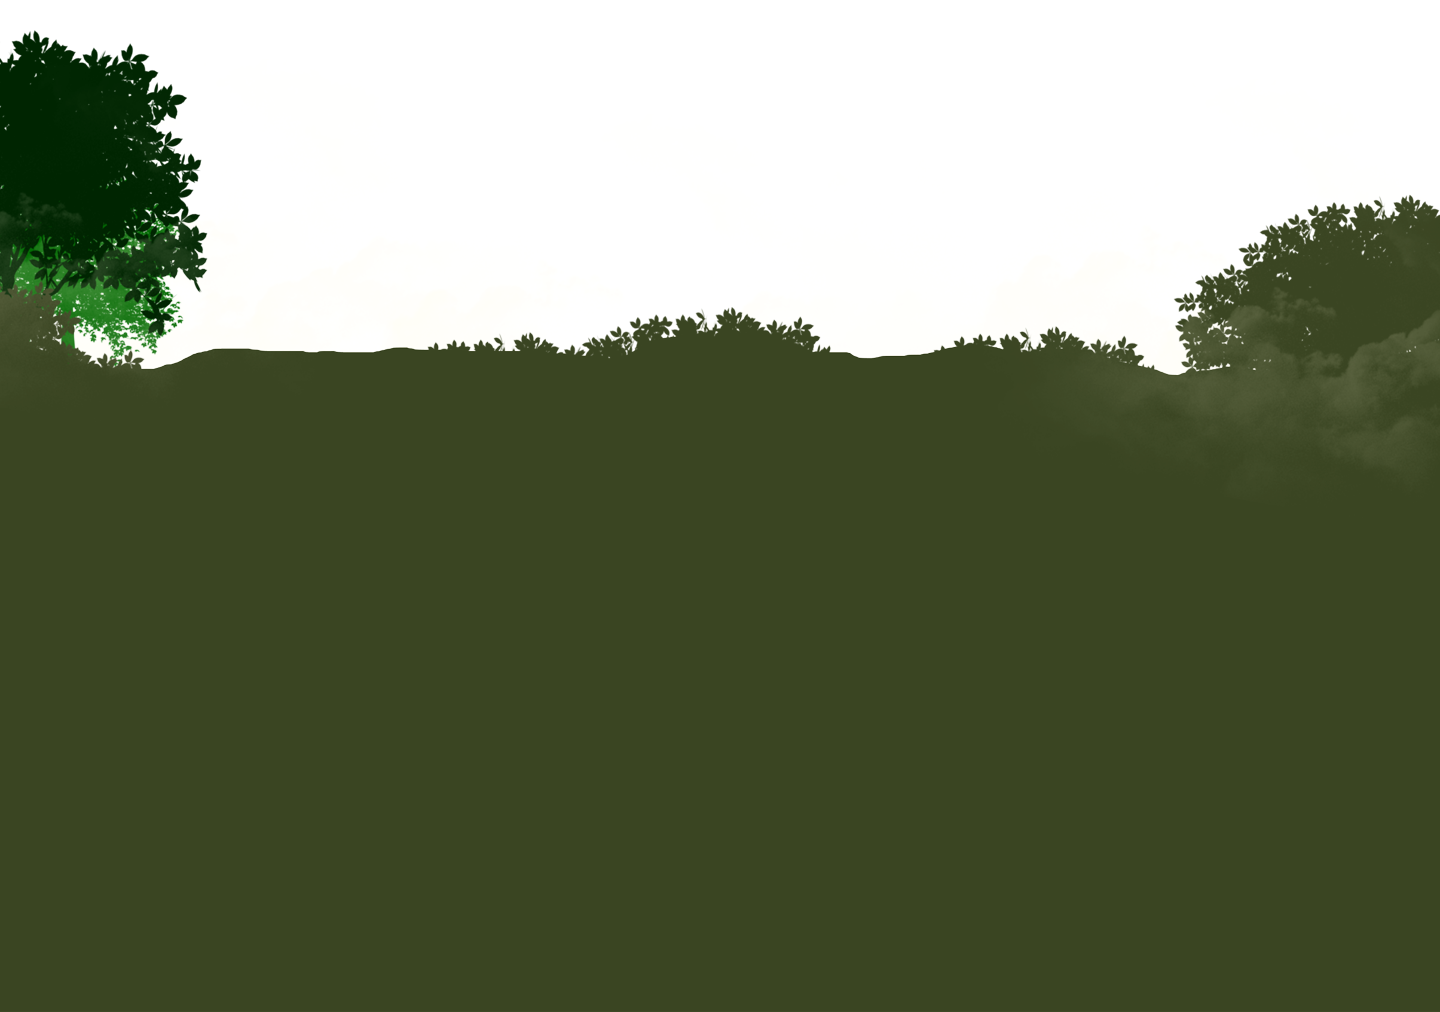
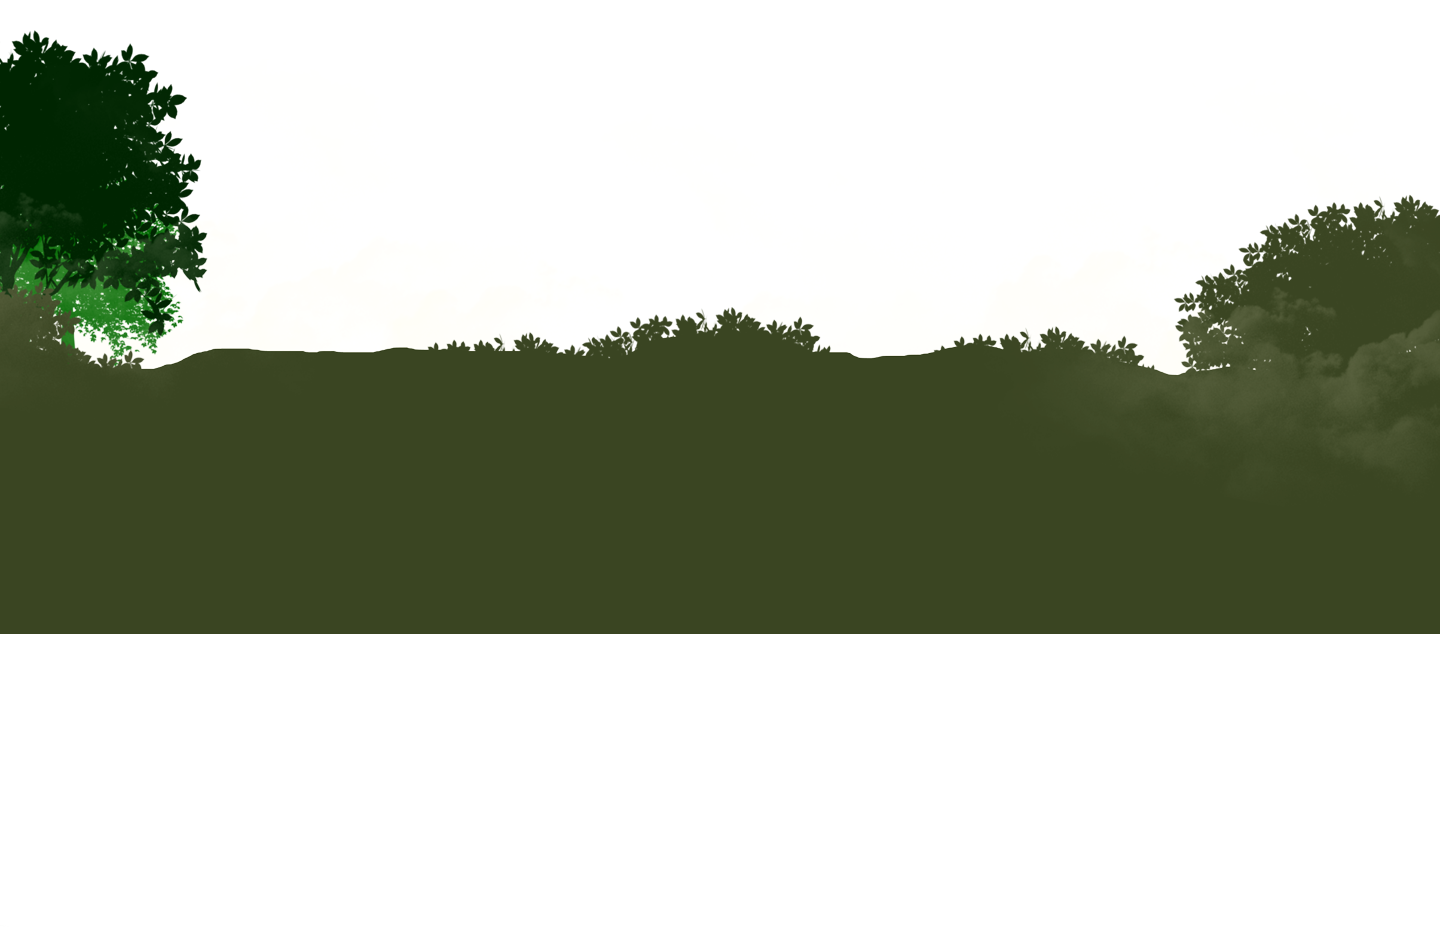
視差滾動修改

diff --git a/index.html b/index.html
@@ -8,44 +8,46 @@
     <title>test</title>
 </head>
 <body>
-    <div class="parallax">
-        <div class="parallax__layer parallax__layer__0">
-            <img src="./image/太陽.png" />
-        </div>
-        <div class="parallax__layer parallax__layer__1">
-            <img src="./image/M7.png" class="M7"/>
-        </div>
-        <div class="parallax__layer parallax__layer__2">
-            <img src="./image/城市.png" />
-        </div>
-        <div class="parallax__layer parallax__layer__3">
-            <img src="./image/m6.png" />
-        </div>
-        <div class="parallax__layer parallax__layer__4">
-            <div><img src="./image/m5.png" /></div>
-        </div>
-        <div class="parallax__layer parallax__layer__5">
-            <img src="./image/m4.png" />
-        </div>
-        <div class="parallax__layer parallax__layer__6">
-            <img src="./image/m3.png" />
-        </div>
-        <div class="parallax__layer parallax__layer__7">
-            <img src="./image/m2.png" />
-        </div>
-        <div class="parallax__layer parallax__layer__8">
-            <img src="./image/m1.png" />
-        </div>
-        <div class="parallax__layer parallax__layer__9">
-            <img src="./image/地板.png" />
-        </div>
-        <!-- 
+    
+        <div class="parallax">
+            <div class="parallax__layer parallax__layer__0">
+                <img src="./image/太陽.png" />
+            </div>
+            <div class="parallax__layer parallax__layer__1">
+                <img src="./image/M7.png" class="M7"/>
+            </div>
+            <div class="parallax__layer parallax__layer__2">
+                <img src="./image/城市.png" />
+            </div>
+            <div class="parallax__layer parallax__layer__3">
+                <img src="./image/m6.png" />
+            </div>
+            <div class="parallax__layer parallax__layer__4">
+                <div><img src="./image/m5.png" /></div>
+            </div>
+            <div class="parallax__layer parallax__layer__5">
+                <img src="./image/m4.png" />
+            </div>
+            <div class="parallax__layer parallax__layer__6">
+                <img src="./image/m3.png" />
+            </div>
+            <div class="parallax__layer parallax__layer__7">
+                <img src="./image/m2.png" />
+            </div>
+            <div class="parallax__layer parallax__layer__8">
+                <img src="./image/m1.png" />
+            </div>
+            <div class="parallax__layer parallax__layer__9">
+                <img src="./image/地板.png" />
+            </div>
+            <div class="parallax__cover">
+                <section class=" section1 ">
+                    <div>下面內容寫這裡</div>
+                </section>
+            </div>
+        </div>        
+    
 
 
-        <div class="parallax__layer parallax__layer__6">
-            <img src="./image/地板.png" />
-        </div> -->
-        <div class="parallax__cover"></div>
-    </div>
 </body>
 </html>

diff --git a/css/main.css b/css/main.css
@@ -2,11 +2,16 @@
  * {
 	 box-sizing: border-box;
 }
- html, body {
+html{
+
+}
+body {
     background: linear-gradient(33deg, #ECE88D 14%, #25B7DB 100%);
     background: -moz-linear-gradient(33deg, #ECE88D 14%, #25B7DB 100%);
     background: -webkit-linear-gradient(33deg, #ECE88D 14%, #25B7DB 100%);
     background: -o-linear-gradient(33deg, #ECE88D 14%, #25B7DB 100%);
+	width: 100vw;
+	overflow-x: hidden;
 }
  .parallax {
 	 perspective: 300px;
@@ -19,6 +24,7 @@
 	 right: 0;
 	 bottom: 0;
 	 margin-left: -780px;
+	 z-index: -3;
 }
  .parallax__layer {
 	 position: absolute;
@@ -36,11 +42,12 @@
 	 background-color: #3a4522;
 	 display: block;
 	 position: absolute;
-	 top: 200%;
+	 top: 160%;
 	 left: 0;
 	 right: 0;
 	 height: 2000px;
-	 z-index: 2;
+	 z-index: 1;
+	 
 }
  .parallax__layer__0 {
 	 transform: translateZ(-550px) scale(3);
@@ -102,8 +109,14 @@
 }
 .parallax__layer__9 {
     transform: translateZ(-100px) scale(1.5);
-    top: -4000px;
+    top: -3300px;
 }
 .parallax__layer__9 img{
     margin-left: 10px;
+}
+section{
+	margin-left: 50px;
+}
+.section1{
+	color: aliceblue;
 }
